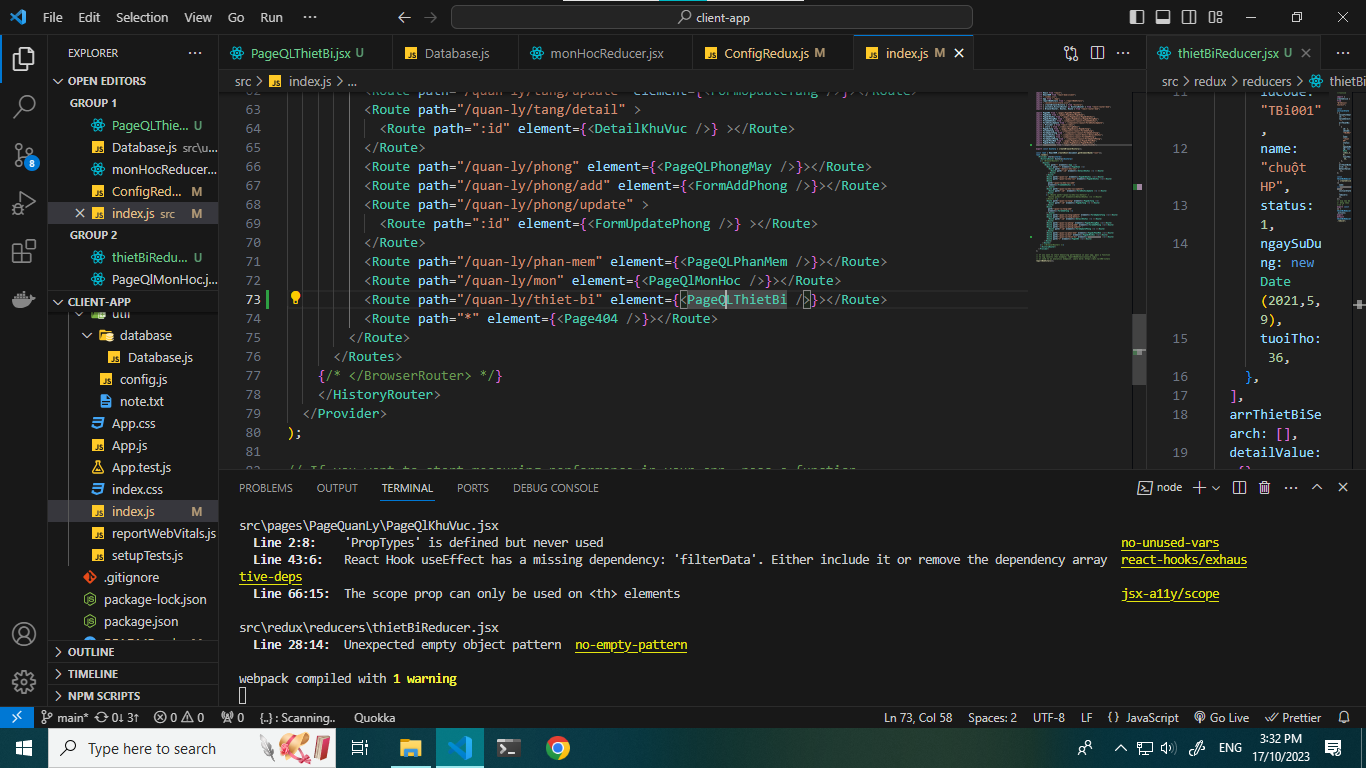
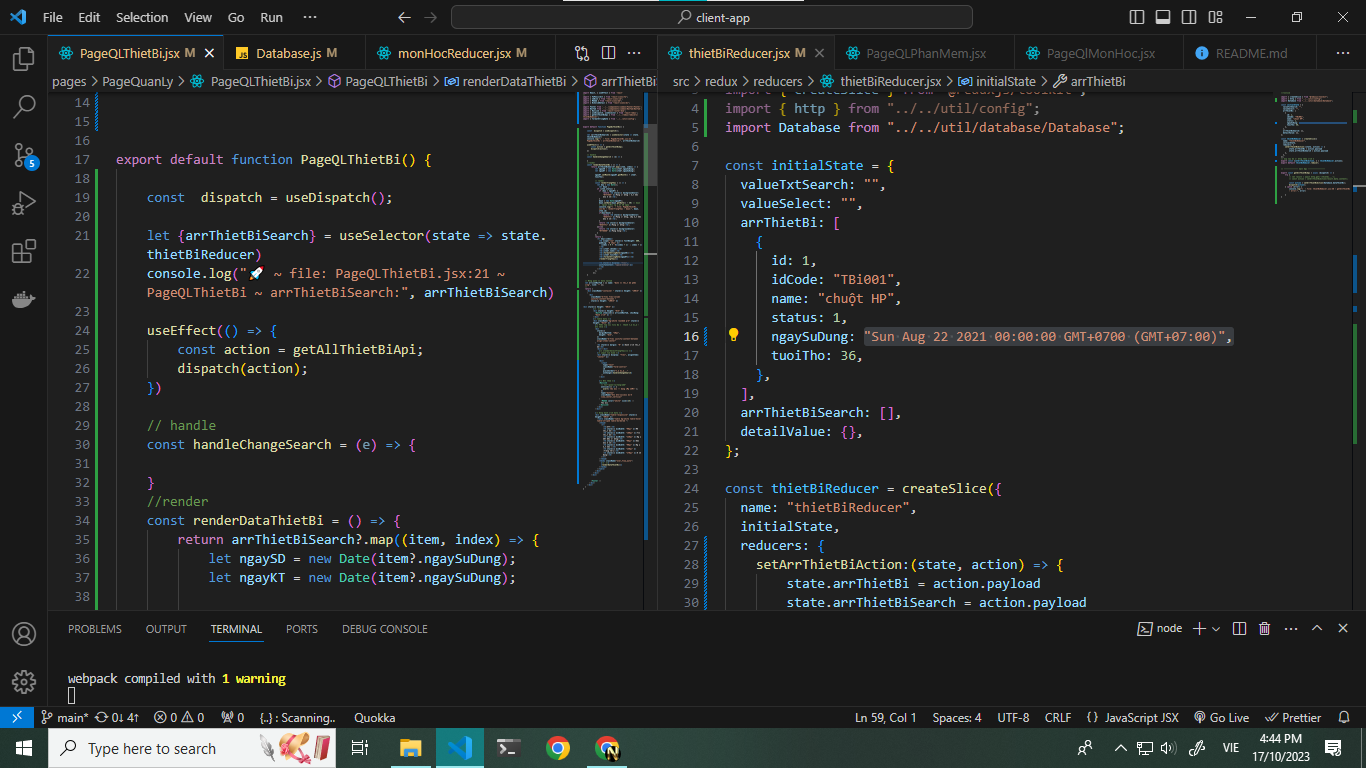
QL TBi: finish render data

diff --git a/src/pages/PageQuanLy/PageQLThietBi.jsx b/src/pages/PageQuanLy/PageQLThietBi.jsx
@@ -1,9 +1,201 @@
-import React from 'react'
+import React, { useEffect } from 'react'
+//
+import { FaPencilAlt } from "react-icons/fa";
+import { ImBin2 } from "react-icons/im";
+import { MdAdd } from "react-icons/md";
+import { BiSolidDetail } from "react-icons/bi";
+//
+import Footer from '../../components/common/Footer/Footer';
+import NavTab from '../../components/common/NavTab/NavTab';
+import { NavLink } from 'react-router-dom';
+import { useDispatch, useSelector } from 'react-redux';
+import { getAllThietBiApi } from '../../redux/reducers/thietBiReducer';
+import { formatStringDate } from '../../util/config';
+
+
 
 export default function PageQLThietBi() {
+
+    const  dispatch = useDispatch();
+
+    let {arrThietBiSearch} = useSelector(state => state.thietBiReducer)
+    console.log("🚀 ~ file: PageQLThietBi.jsx:21 ~ PageQLThietBi ~ arrThietBiSearch:", arrThietBiSearch)
+
+    useEffect(() => {
+        const action = getAllThietBiApi;
+        dispatch(action);
+    })
+    
+    // handle
+    const handleChangeSearch = (e) => {
+
+    }
+    //render
+    const renderDataThietBi = () => {
+        return arrThietBiSearch?.map((item, index) => {
+            let ngaySD = new Date(item?.ngaySuDung);
+            let ngayKT = new Date(item?.ngaySuDung);
+      
+            ngayKT.setMonth(ngayKT.getMonth() + item?.tuoiTho);
+      
+            // render
+            const renderTrangThai = () => {
+              let day = new Date();
+                let day2 ;
+              if (item.status) {
+                if (day > ngayKT) {
+                    return <td style={{ backgroundColor: "#fff563" }}>Đang sử dụng - hết hạn bảo hành</td>;
+                }
+                day2 = new Date(ngayKT);
+                day2.setDate(day2.getDate() - 30) // day2 là tgian trước ngày kt 30 ngay
+                console.log("🚀 ~ file: PageQLThietBi.jsx:51 ~ renderTrangThai ~ day2:", day2, item.id)
+                if(day>day2) {
+                    return <td style={{ backgroundColor: "#4dff7c" }}>Đang sử dụng, sắp hết hạn bảo hành</td>;
+                }
+                return <td style={{ backgroundColor: "#4dff7c" }}>Đang sử dụng</td>;
+              }else{
+                return <td style={{ backgroundColor: "#ff6666" }}>Đang hỏng</td>;
+              }
+            };
+            return (
+              <tr key={index}>
+                <td scope="row" style={{ fontWeight: 600, padding: "0 15px" }}>
+                  {index < 9 ? `0${index + 1}` : index + 1}
+                </td>
+                <td>{item?.idCode}</td>
+                <td>{item?.name}</td>
+                <td>{formatStringDate(ngaySD)}</td>
+                <td>{item?.tuoiTho}</td>
+                <td>{formatStringDate(ngayKT)}</td>
+                {renderTrangThai()}
+      
+                <td style={{ display: "flex", justifyContent: "space-evenly" }}>
+                  <NavLink
+                    // to={"/quan-ly/phan-mem/update"}
+                    onClick={() => {
+                      alert(`Update -- ${item.id} -- dang cập nhật!`);
+                      // co the truyển data len redux từ đây rồi sang trang kia lấy về sau
+                    }}
+                  >
+                    <button
+                      type="button"
+                      className="btn btn-primary mx-2 px-2"
+                      style={{ padding: "2px" }}
+                    >
+                      <FaPencilAlt color="white" size={16} />
+                    </button>
+                  </NavLink>
+                  <button
+                    onClick={() => {
+                      alert(`Del -- ${item.id} -- dang cập nhật!`);
+                    }}
+                    type="button"
+                    className="btn btn-danger mx-2 px-2"
+                    style={{ padding: "2px" }}
+                  >
+                    <ImBin2 color="white" size={16} />
+                  </button>
+                  <NavLink
+                    // to={`../quan-ly/phong`}
+                    onClick={() => {
+                      alert(`Chi tiết -- ${item.id} -- dang cập nhật!`);
+                    }}
+                    type="button"
+                    className="btn btn-info mx-2 px-2"
+                    style={{ padding: "2px" }}
+                  >
+                    <BiSolidDetail color="white" size={16} />
+                  </NavLink>
+                </td>
+              </tr>
+            );
+          });
+    }
+
+
+  // Mảng quản lý data navtab
+  let arrLinkNavTab = [{ name: "Quản lý thiết bị phần cứng", link: "" }];
+  //
   return (
-    <div>
-      PageQLThietBi
+    <div className="container " style={{ height: "100vh" }}>
+      <div
+        className="d-flex flex-column justify-content-between "
+        style={{ height: "100vh" }}
+      >
+
+<div style={{ height: "80vh" }}>
+          {/*  */}
+          <div style={{ height: "8vh" }}>
+            <NavTab itemLink={{ arrLinkNavTab, chucNang: "Danh sách" }} />
+          </div>
+          {/* table data */}
+          <div className="bg-white rounded p-3" style={{ height: "82vh" }}>
+            {/* Phần top với tiêu đề và thanh tìm kiếm - btn thêm */}
+            <div
+              style={{
+                marginBottom: "20px",
+                height: "6vh",
+              }}
+              className="d-flex justify-content-between align-items-center"
+            >
+              <h2 style={{ margin: "0" }}>Danh sách thiết bị</h2>
+              <div></div>
+                {/* {renderSelectTrangThai()} */}
+              {/* input tim kiem */}
+              <div style={{ display: "flex", alignItems: "center" }}>
+                
+                <div>
+                  <input
+                    type="text"
+                    className="form-control"
+                    id
+                    placeholder="tìm kiếm..."
+                    onChange={handleChangeSearch}
+                  />
+                </div>
+
+                {/* Btn them */}
+                <NavLink
+                  // to="/quan-ly/tang/add"
+                  onClick={() => {
+                    alert(`tạo mới -- dang cập nhật!`);
+                  }}
+                  type="button"
+                  className="btn btn-success ms-4 view_center_vertical"
+                >
+                  <MdAdd color="white" size={25} />
+                  Tạo mới
+                </NavLink>
+              </div>
+            </div>
+
+            {/* Bảng danh sách data */}
+            <div className="table-responsive" style={{ height: "69vh" }}>
+              <table className="table bg-white table-hover table-striped table-bordered ">
+                <thead>
+                  <tr>
+                    <th>STT</th>
+                    <th style={{ minWidth: "90px" }}>Mã thiết bị</th>
+                    <th style={{ minWidth: "180px" }}>Tên thiết bị</th>
+                    <th style={{ minWidth: "120px" }}>Ngày bắt đầu sử dụng</th>
+                    <th style={{ minWidth: "90px" }}>Hạn bảo hành</th>
+                    <th style={{ minWidth: "90px" }}>Ngày hết hạn </th>
+                    <th style={{ minWidth: "150px" }}>Trạng thái</th>
+                    <th style={{ minWidth: "170px" }}>Hành động</th>
+                  </tr>
+                </thead>
+                <tbody className="over_flow_auto">
+                  {/*  */}
+                  {renderDataThietBi()}
+                </tbody>
+              </table>
+            </div>
+          </div>
+        </div>
+
+
+        <Footer />
+      </div>
     </div>
   )
 }

diff --git a/src/util/database/Database.js b/src/util/database/Database.js
@@ -128,13 +128,27 @@ const dataTang = [
   { id: 4, name: "Tầng 4", soPhong: 6 },
 ];
 
+const random1_0 = () => {
+  let x = Math.floor(Math.random() * 10);
+  if (x === 2|| x === 6 || x === 7) {
+    return 0
+  }
+  return 1
+}
 //8.	Thiết bị (mã thiết bị, tên thiết bị, trạng thái, ngày cài đặt, tuổi thọ)
 const dataThietBi = [
-  {id:1, idCode:"TBi001", name:'chuột HP', status:1, ngaySuDung: date1(), tuoiTho:36 },
-  {id:2, idCode:"TBi002", name:'Man hinh A', status:1, ngaySuDung: date1(), tuoiTho:Math.floor(Math.random() * 24) + 12 },
-  {id:3, idCode:"TBi003", name:'CPU 123', status:1, ngaySuDung: date1(), tuoiTho:Math.floor(Math.random() * 24) + 12 },
-  {id:4, idCode:"TBi004", name:'SSD-1TB', status:1, ngaySuDung: date1(), tuoiTho:Math.floor(Math.random() * 24) + 12 },
-  {id:5, idCode:"TBi005", name:'CORE - 1', status:1, ngaySuDung: date1(), tuoiTho:Math.floor(Math.random() * 24) + 12 },
+  {id:1, idCode:"TBi001", name:'chuột HP', status:random1_0(), ngaySuDung: date1()+"", tuoiTho:36 },
+  {id:2, idCode:"TBi002", name:'Man hinh A', status:random1_0(), ngaySuDung: date2()+"", tuoiTho:Math.floor(Math.random() * 24) + 12 },
+  {id:3, idCode:"TBi003", name:'CPU 123', status:random1_0(), ngaySuDung: date3()+"", tuoiTho:Math.floor(Math.random() * 24) + 12 },
+  {id:4, idCode:"TBi004", name:'SSD-1TB', status:random1_0(), ngaySuDung: date1()+"", tuoiTho:Math.floor(Math.random() * 24) + 12 },
+  {id:5, idCode:"TBi005", name:'RAM Kingston 8GB ', status:random1_0(), ngaySuDung: date3()+"", tuoiTho:Math.floor(Math.random() * 24) + 12 },
+  {id:6, idCode:"TBi006", name:'RAM PC Fury', status:random1_0(), ngaySuDung: date2()+"", tuoiTho:Math.floor(Math.random() * 24) + 12 },
+  {id:7, idCode:"TBi007", name:'SSD Kingston XS1000', status:random1_0(), ngaySuDung: date2()+"", tuoiTho:Math.floor(Math.random() * 24) + 12 },
+  {id:8, idCode:"TBi008", name:'Card GeForce GT 1030', status:random1_0(), ngaySuDung: date1()+"", tuoiTho:Math.floor(Math.random() * 24) + 12 },
+  {id:9, idCode:"TBi009", name:' SSD/HDD Orico 25PW1-U3-BK', status:random1_0(), ngaySuDung: date1()+"", tuoiTho:Math.floor(Math.random() * 24) + 12 },
+  {id:10, idCode:"TBi010", name:'CORE - 1', status:random1_0(), ngaySuDung: date2()+"", tuoiTho:Math.floor(Math.random() * 24) + 12 },
+  {id:11, idCode:"TBi011", name:'CORE - 1', status:random1_0(), ngaySuDung: date1()+"", tuoiTho:Math.floor(Math.random() * 24) + 12 },
+  {id:12, idCode:"TBi012", name:'CORE - 1', status:random1_0(), ngaySuDung: 'Tue Oct 28 2021 16:38:31 GMT+0700 (GMT+07:00)', tuoiTho:24 },
 ]
 
 let arrPhongMay1 = [

diff --git a/src/redux/reducers/thietBiReducer.jsx b/src/redux/reducers/thietBiReducer.jsx
@@ -1,6 +1,8 @@
 //rxslice
 
 import { createSlice } from "@reduxjs/toolkit";
+import { http } from "../../util/config";
+import Database from "../../util/database/Database";
 
 const initialState = {
   valueTxtSearch: "",
@@ -11,7 +13,7 @@ const initialState = {
       idCode: "TBi001",
       name: "chuột HP",
       status: 1,
-      ngaySuDung: new Date(2021,5,9),
+      ngaySuDung: "Sun Aug 22 2021 00:00:00 GMT+0700 (GMT+07:00)",
       tuoiTho: 36,
     },
   ],
@@ -22,8 +24,31 @@ const initialState = {
 const thietBiReducer = createSlice({
   name: "thietBiReducer",
   initialState,
-  reducers: {},
+  reducers: {
+    setArrThietBiAction:(state, action) => {
+        state.arrThietBi = action.payload
+        state.arrThietBiSearch = action.payload
+    },
+  },
 });
 // exp nay de sử dụng theo cách 2
-export const {} = thietBiReducer.actions;
+export const {setArrThietBiAction, } = thietBiReducer.actions;
 export default thietBiReducer.reducer;
+
+
+// -------------- Call Api -----------------
+
+export const getAllThietBiApi = async (dispatch) => {
+    try {
+        // let result = await http.get('/thietbi...');
+        // const action = setArrThietBiAction(result.data.content);
+
+        const action = setArrThietBiAction(Database.dataThietBi);
+        dispatch(action);
+    } catch (error) {
+        console.log("🚀 ~ file: thietBiReducer.jsx:38 ~ getAllThietBi ~ error:", error)
+        
+    }
+}
+
+

diff --git a/src/redux/reducers/monHocReducer.jsx b/src/redux/reducers/monHocReducer.jsx
@@ -30,7 +30,6 @@ const searchData = (arrData, valSearch, valSelect) => {
       formatStringDate(ngayKT).toLowerCase().includes(textSearch)
     );
   });
-  console.log(arrUpdate);
 
   // search -- select
   let day = new Date();
@@ -72,7 +71,7 @@ const initialState = {
       id: 1,
       idCode: "MH001",
       name: "Lập trình www.",
-      ngayBatDau: new Date(2022, 9, 9),
+      ngayBatDau: "02/02/1234",
       soBuoi: 15,
     },
   ],
